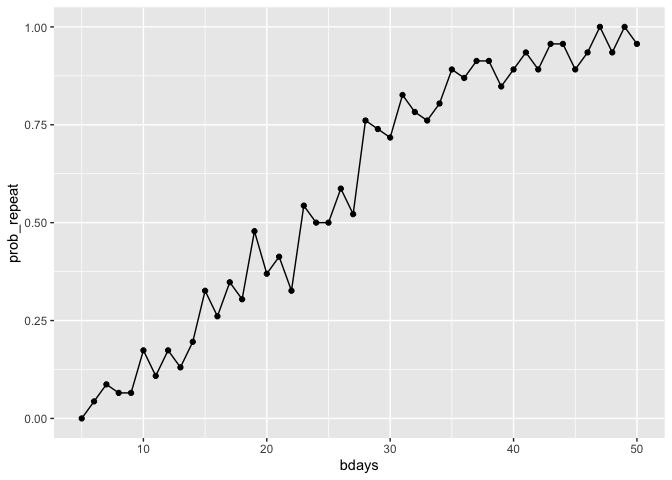
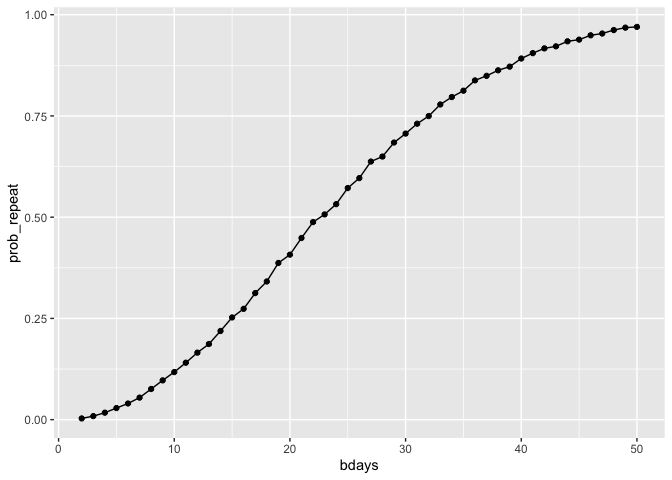
update about the comment

diff --git a/p8105_hw5_yz5248.md b/p8105_hw5_yz5248.md
@@ -26,8 +26,8 @@ bday_sim = function(n_room){
 ``` r
 bday_sim_results =
   expand_grid(
-    bdays = 5:50,
-    iter = 5:50
+    bdays = 2:50,
+    iter = 1:10000
   ) |>
   mutate(
     result = map_lgl(bdays, bday_sim)
@@ -48,6 +48,30 @@ bday_sim_results |>
 ```
 
 ![](p8105_hw5_yz5248_files/figure-gfm/unnamed-chunk-4-1.png)<!-- -->
+
+``` r
+bday_sim_results
+```
+
+    ## # A tibble: 49 × 2
+    ##    bdays prob_repeat
+    ##    <int>       <dbl>
+    ##  1     2      0.003 
+    ##  2     3      0.0087
+    ##  3     4      0.0172
+    ##  4     5      0.0286
+    ##  5     6      0.0399
+    ##  6     7      0.0544
+    ##  7     8      0.0757
+    ##  8     9      0.097 
+    ##  9    10      0.118 
+    ## 10    11      0.141 
+    ## # ℹ 39 more rows
+
+The simulation plot demonstrates that as group size increases, the
+probability of shared birthdays grows rapidly, reaching about 50% around
+23 people and approaching 100% by 50 people — a clear empirical
+verification of the birthday paradox.
 
 # Problem 2
 
@@ -84,20 +108,19 @@ sim_results_df =
     mean_mu_hat = mean(mu_hat),
     mean_mu_hat_reject = mean(mu_hat[p_value < 0.05])
   )
-
 sim_results_df
 ```
 
     ## # A tibble: 7 × 4
     ##      mu  power mean_mu_hat mean_mu_hat_reject
     ##   <int>  <dbl>       <dbl>              <dbl>
-    ## 1     0 0.0486    -0.00174            0.00831
-    ## 2     1 0.186      1.00               2.26   
-    ## 3     2 0.560      1.99               2.61   
-    ## 4     3 0.889      3.00               3.19   
-    ## 5     4 0.989      4.00               4.03   
-    ## 6     5 1.00       5.00               5.01   
-    ## 7     6 1.00       6.00               6.00
+    ## 1     0 0.0490     0.00357            -0.0713
+    ## 2     1 0.183      0.991               2.24  
+    ## 3     2 0.561      2.00                2.62  
+    ## 4     3 0.888      3.00                3.19  
+    ## 5     4 0.987      4.00                4.03  
+    ## 6     5 1.00       5.00                5.01  
+    ## 7     6 1          6.00                6.00
 
 ## plot 1
 
@@ -109,9 +132,16 @@ p_power = sim_results_df |>
 p_power
 ```
 
-![](p8105_hw5_yz5248_files/figure-gfm/unnamed-chunk-7-1.png)<!-- -->
-
-## plot 2
+![](p8105_hw5_yz5248_files/figure-gfm/unnamed-chunk-7-1.png)<!-- --> The
+plot shows a positive association between effect size and power:  
+As effect size increases, the power of the test also increases.  
+When effect size equals to 0 the power is very low (close to the
+significance level, around 0.05–0.1), meaning the test rarely rejects
+the null hypothesis when it is true.  
+As effect size increases to about 2, the power rises sharply (around
+0.5), indicating the test becomes more capable of detecting the
+effect.  
+\## plot 2
 
 ``` r
 estimate_mu = sim_results_df |>
@@ -125,6 +155,13 @@ estimate_mu
 ```
 
 ![](p8105_hw5_yz5248_files/figure-gfm/unnamed-chunk-8-1.png)<!-- -->
+From the plot, we could find that the blue line is systematically higher
+than the red line for small mu values. The average mu across all samples
+is approximately unbiased for the true mu, but the average mu among
+samples where the null is rejected is biased upward, especially for
+small mu. This happens because we condition on a rare event (rejection),
+which tends to occur when the observed effect size is large —
+demonstrating selection bias in inference after testing.
 
 # Problem 3
 
@@ -141,6 +178,12 @@ homicides_df = read_csv("homicide-data.csv")
     ## ℹ Use `spec()` to retrieve the full column specification for this data.
     ## ℹ Specify the column types or set `show_col_types = FALSE` to quiet this message.
 
+The dataset compiled by The Washington Post contains detailed
+information on homicides that occurred in 50 of the largest U.S. cities
+between January 1, 2007, and December 31, 2017. Each row in the dataset
+represents a single homicide case. The data were collected from local
+police departments and publicly available police records, and later
+curated by The Washington Post for public use.  
 The dataset contains variables: “uid”, “reported_date”, “victim_last”,
 “victim_first”, “victim_race”, “victim_age”, “victim_sex”, “city”,
 “state”, “lat”, “lon”, “disposition”
@@ -162,3 +205,93 @@ city_state = homicides_df |>
   ) |>
   view()
 ```
+
+``` r
+baltimore_df = city_state |>
+  filter(city_state == "Baltimore, MD")
+
+baltimore_test = prop.test(
+  x = baltimore_df$unsolved_homicides,
+  n = baltimore_df$total_homicides
+) 
+baltimore_test
+```
+
+    ## 
+    ##  1-sample proportions test with continuity correction
+    ## 
+    ## data:  baltimore_df$unsolved_homicides out of baltimore_df$total_homicides, null probability 0.5
+    ## X-squared = 239.01, df = 1, p-value < 2.2e-16
+    ## alternative hypothesis: true p is not equal to 0.5
+    ## 95 percent confidence interval:
+    ##  0.6275625 0.6631599
+    ## sample estimates:
+    ##         p 
+    ## 0.6455607
+
+``` r
+baltimore_table = baltimore_test |>
+  broom::tidy()
+baltimore_table
+```
+
+    ## # A tibble: 1 × 8
+    ##   estimate statistic  p.value parameter conf.low conf.high method    alternative
+    ##      <dbl>     <dbl>    <dbl>     <int>    <dbl>     <dbl> <chr>     <chr>      
+    ## 1    0.646      239. 6.46e-54         1    0.628     0.663 1-sample… two.sided
+
+``` r
+city_results = 
+  city_state |>
+  mutate(
+    test_result = map2(unsolved_homicides, total_homicides, ~prop.test(.x, .y))
+  )
+```
+
+    ## Warning: There was 1 warning in `mutate()`.
+    ## ℹ In argument: `test_result = map2(unsolved_homicides, total_homicides,
+    ##   ~prop.test(.x, .y))`.
+    ## Caused by warning in `prop.test()`:
+    ## ! Chi-squared approximation may be incorrect
+
+``` r
+city_results_tidy = 
+  city_results |>
+  mutate(
+    tidy_res = map(test_result, broom::tidy)
+  ) |>
+  unnest(tidy_res) |> 
+  select(city_state, total_homicides, unsolved_homicides, estimate, conf.low, conf.high)
+city_results_tidy
+```
+
+    ## # A tibble: 51 × 6
+    ##    city_state     total_homicides unsolved_homicides estimate conf.low conf.high
+    ##    <chr>                    <int>              <dbl>    <dbl>    <dbl>     <dbl>
+    ##  1 Albuquerque, …             378                146    0.386    0.337     0.438
+    ##  2 Atlanta, GA                973                373    0.383    0.353     0.415
+    ##  3 Baltimore, MD             2827               1825    0.646    0.628     0.663
+    ##  4 Baton Rouge, …             424                196    0.462    0.414     0.511
+    ##  5 Birmingham, AL             800                347    0.434    0.399     0.469
+    ##  6 Boston, MA                 614                310    0.505    0.465     0.545
+    ##  7 Buffalo, NY                521                319    0.612    0.569     0.654
+    ##  8 Charlotte, NC              687                206    0.300    0.266     0.336
+    ##  9 Chicago, IL               5535               4073    0.736    0.724     0.747
+    ## 10 Cincinnati, OH             694                309    0.445    0.408     0.483
+    ## # ℹ 41 more rows
+
+``` r
+city_results_tidy |>
+  mutate(
+    city_state = fct_reorder(city_state, estimate)
+  ) |>
+  ggplot(aes(x = estimate, y = city_state)) +
+  geom_point() +
+  geom_errorbar(
+    aes(xmin = conf.low, xmax = conf.high),
+    width = 0.2, color = "gray40"
+  ) +
+  theme_minimal(base_size = 13)
+```
+
+![](p8105_hw5_yz5248_files/figure-gfm/unnamed-chunk-13-1.png)<!-- -->
